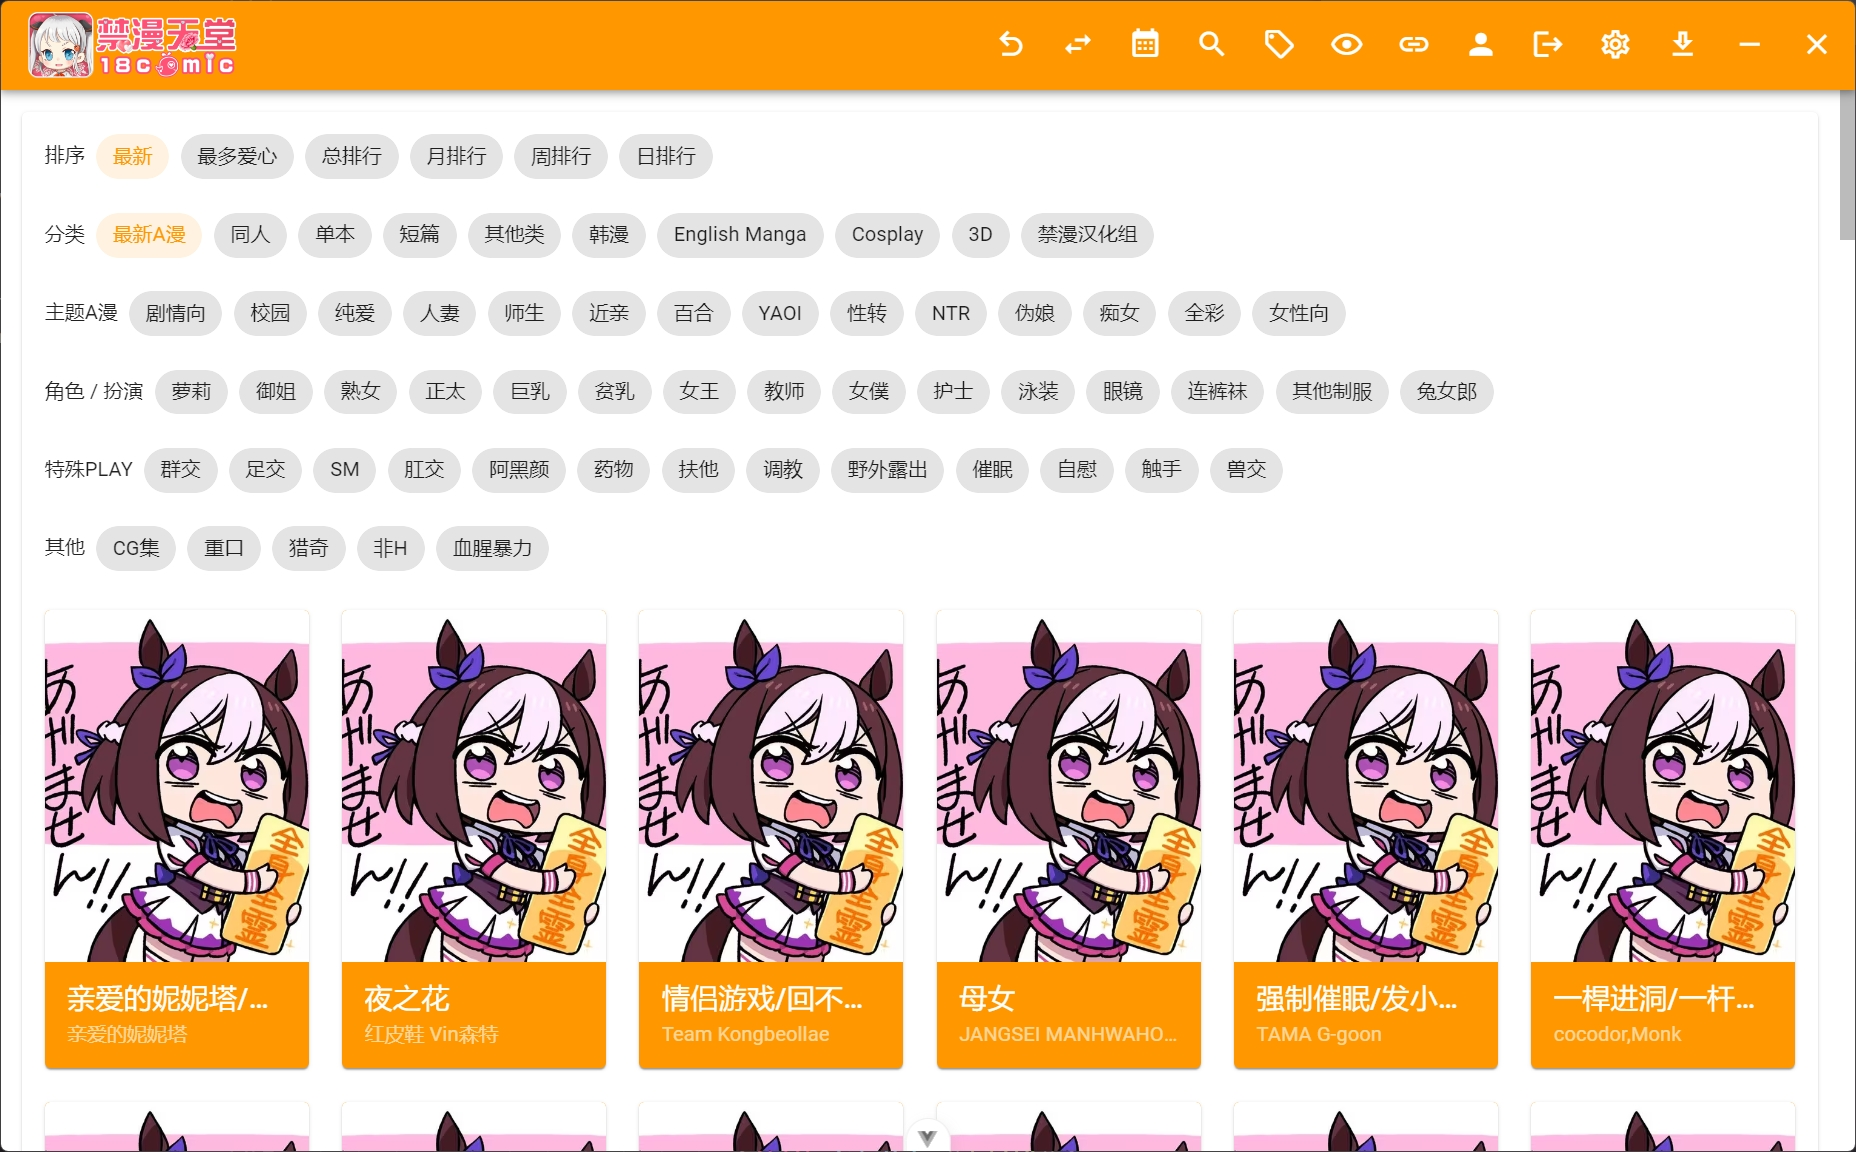
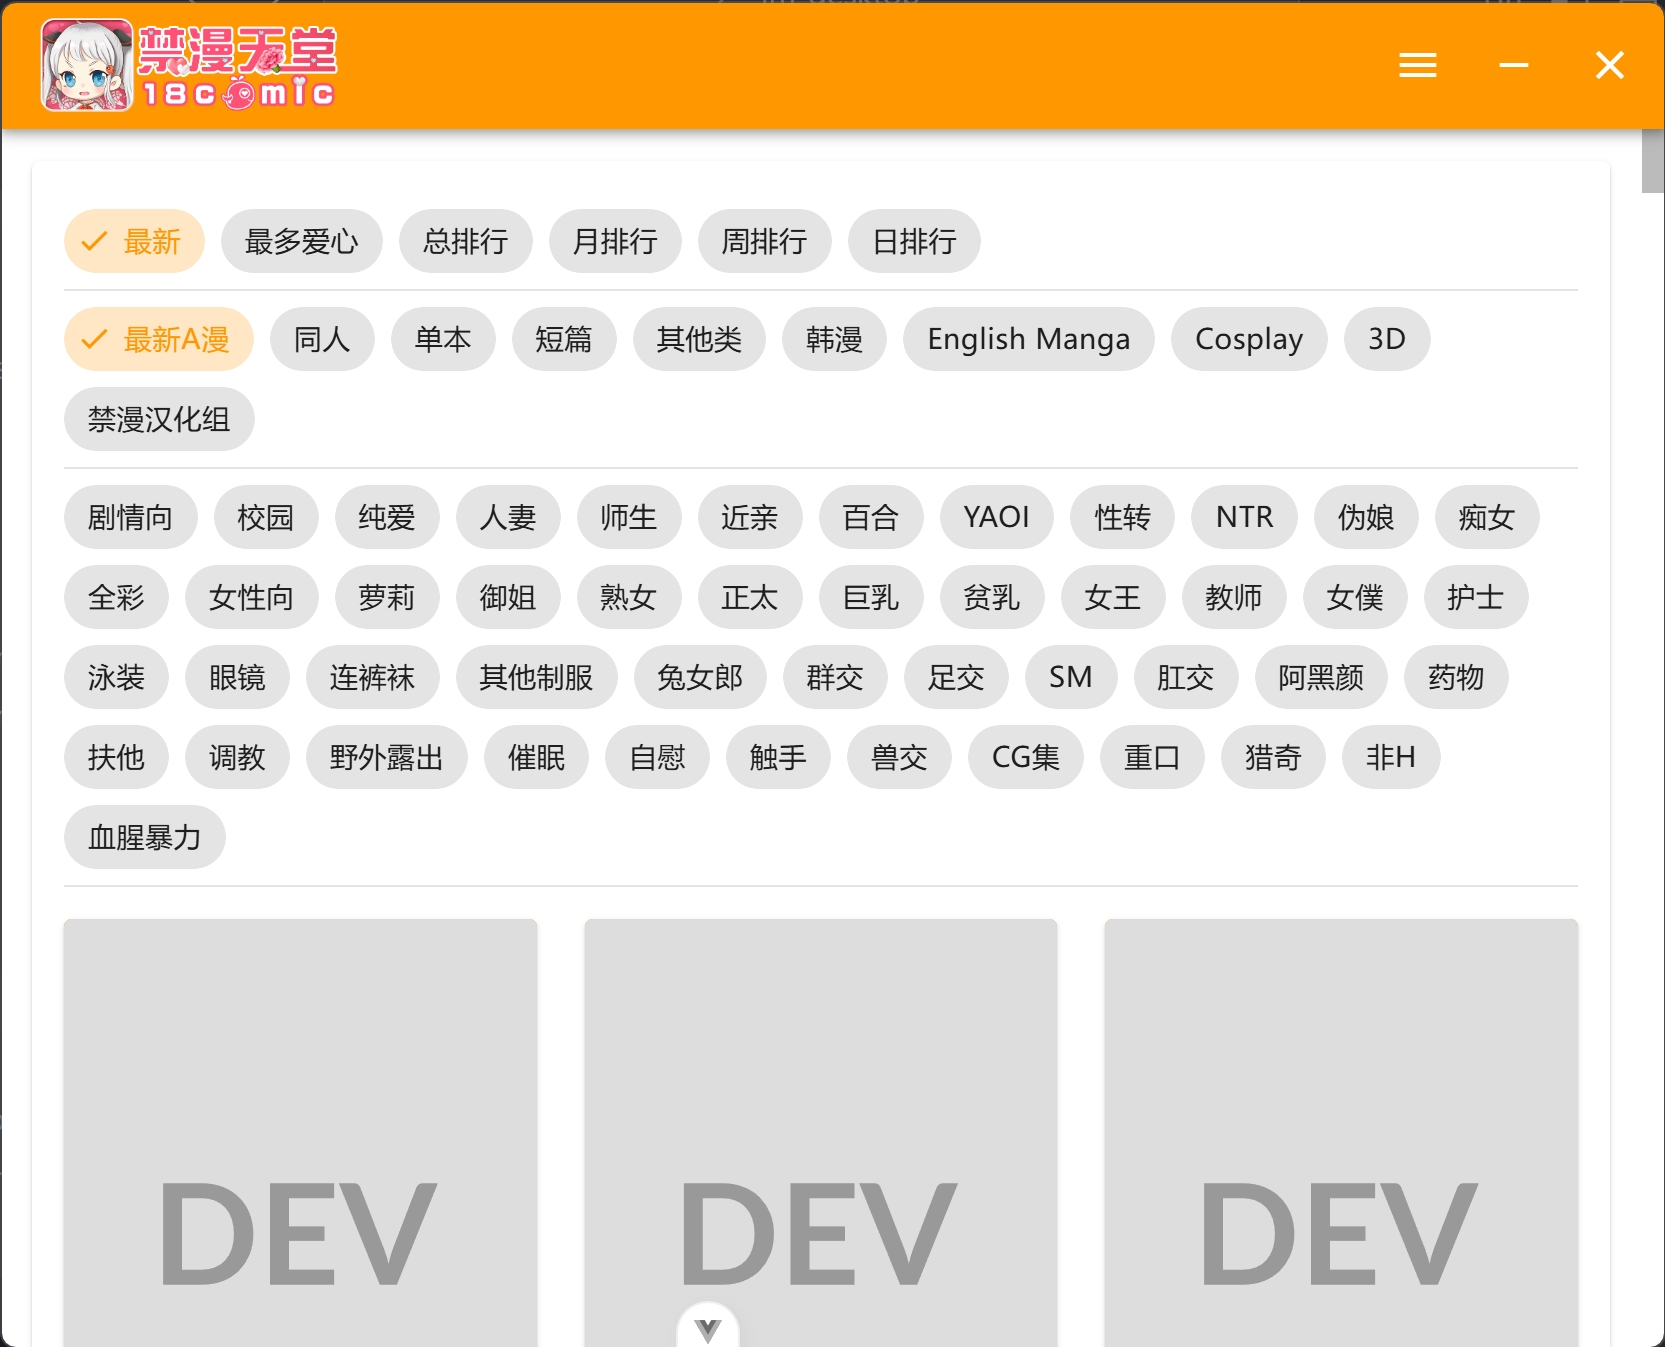
chore: 更新 README

diff --git a/README.md b/README.md
@@ -33,33 +33,46 @@
 由于需要截图原因，部分封面图片已屏蔽。
 
 ### 首页
-![](./readme-assets/首页.png)
+![](./readme-assets/首页1.png)
+
+![](./readme-assets/首页2.png)
+
+![](./readme-assets/首页3.png)
 
 ### 个人中心
+
 ![](./readme-assets/个人中心.png)
 
 ### 签到
+
 ![](./readme-assets/签到页.png)
 
 ### 详情（日间模式）
+
 ![](./readme-assets/详情页（日间模式）.png)
 
 ### 详情（夜间模式）
+
 ![](./readme-assets/详情页（夜间模式）.png)
 
 ### 阅读（翻页模式）
+
 ![](./readme-assets/阅读（翻页模式）.png)
 
 ### 阅读（滚动模式）
+
 ![](./readme-assets/阅读（滚动模式）.png)
 
 ### 名称搜索
+
 ![](./readme-assets/搜索页.png)
 
 ### 分类搜索排序
+
 ![](./readme-assets/分类搜索.png)
 
 ### 每周必看
+
 ![](./readme-assets/每周必看.png)
 
 ## 声明
@@ -68,9 +81,11 @@
 
 ## 安装包
 
-只提供 win 、 linux 的 x86 绿色包，所有数据只在解压的目录中，整体文件夹可随意拷贝移动（下载路径除外）。
+只提供 win 、 linux 的 x86 绿色包，所有数据（包含下载文件）只在解压的目录中，整体文件夹可随意拷贝移动。mac 用户请使用源码自行构建。
 
-mac 用户请使用源码自行构建。
+点击[这里](https://github.com/Dedicatus546/jm-desktop/releases)或者右侧的 Release 处下载最新的版本，解压后执行目录内的 jm-desktop 或者 jm-desktop.exe 即可。
+
+相关更新请查看项目的 CHANGELOG 文件。
 
 ## 相关帖子
 
